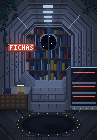
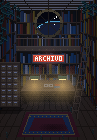
Give the Archive its own architecture and plant positions

diff --git a/js/garden.js b/js/garden.js
@@ -11,16 +11,20 @@ const HOME_X = 38;
 const BOT_Y = 97;
 const reduced = () => window.matchMedia('(prefers-reduced-motion: reduce)').matches;
 
+// Top-left corner of each 26 x 34 cell: small plants, then floor, then hanging.
 export const ROOMS = [
-  { id: 'bay', label: 'Hydroponics bay', art: (band) => `art/out/f_${band}_bg.png` },
-  { id: 'archive', label: 'Archive', art: (band) => `art/out/f_${band}_archive_bg.png` },
-];
-
-// Top-left corner of each 26 x 34 cell: rack, then floor, then hanging.
-const SLOTS = [
-  [64, 50], [76, 50], [64, 60], [76, 60], [64, 70], [76, 70],
-  [1, 93], [71, 105], [17, 107], [29, 83],
-  [24, 0], [46, 0],
+  {
+    id: 'bay',
+    label: 'Hydroponics bay',
+    art: (band) => `art/out/f_${band}_bg.png`,
+    slots: [[64, 50], [76, 50], [64, 60], [76, 60], [64, 70], [76, 70], [1, 93], [71, 105], [17, 107], [29, 83], [24, 0], [46, 0]],
+  },
+  {
+    id: 'archive',
+    label: 'Archive',
+    art: (band) => `art/out/f_${band}_archive_bg.png`,
+    slots: [[3, 16], [15, 16], [27, 16], [43, 16], [55, 16], [67, 16], [0, 100], [72, 104], [12, 108], [58, 106], [6, 0], [66, 0]],
+  },
 ];
 const potFor = (slot) => (slot < 6 ? 0 : slot < 10 ? 1 : 2);
 
@@ -41,7 +45,7 @@ const plantColumn = (plant) => plant.stage + plant.thirst * 5;
 export const plantCell = (plant, band, scale) => sheetCell(band, plantColumn(plant), SPECIES.indexOf(plant.species), scale);
 
 function renderPlant(plant, band) {
-  const [x, y] = SLOTS[plant.slot];
+  const [x, y] = ROOMS[plant.room].slots[plant.slot];
   const wrap = h('div', { class: 'plant' });
   wrap.style.left = px(x);
   wrap.style.top = px(y);
@@ -133,7 +137,7 @@ export function playWater(ctx, card, before, done) {
   document.querySelector('#view').replaceChildren(h('div', { class: 'stage' }, scene));
   document.querySelector('#action').replaceChildren();
 
-  const [cellX, cellY] = SLOTS[target.slot];
+  const [cellX, cellY] = ROOMS[target.room].slots[target.slot];
   const centre = cellX + CELL_W / 2;
   const standX = Math.max(0, Math.min(65, centre < 48 ? Math.round(centre) : Math.round(centre) - 32));
   const water = band === 'night' ? 'art/out/fr_night_fbw.png' : `art/out/fr_${band}_fbw.png`;
@@ -148,7 +152,7 @@ export function playWater(ctx, card, before, done) {
   const grade = ctx.store.save.responses[card.id]?.grade;
   const refreshPlant = () => {
     const old = plantEls.get(target.topic);
-    old.replaceWith(renderPlant({ ...after, slot: target.slot }, band));
+    old.replaceWith(renderPlant({ ...after, room: target.room, slot: target.slot }, band));
   };
   let finished = false;
   let timer = null;

diff --git a/sw.js b/sw.js
@@ -1,5 +1,5 @@
 // Shell and art come from cache and refresh in the background. Cards prefer the network.
-const CACHE = 'freakbot-v6';
+const CACHE = 'freakbot-v7';
 
 const fonts = [
   'michroma-latin-400-normal',

diff --git a/art/final.py b/art/final.py
@@ -43,7 +43,7 @@ BANDS={
 ADD=(0,0,0)
 GLYPH={'L':['100','100','100','100','111'],'I':['111','010','010','010','111'],'B':['110','101','110','101','110'],
        'R':['110','101','110','101','101'],'O':['111','101','101','101','111'],'S':['011','100','010','001','110'],
-       'F':['111','100','110','100','100'],'C':['011','100','100','100','011'],'H':['101','101','111','101','101'],'A':['010','101','111','101','101']}
+       'F':['111','100','110','100','100'],'C':['011','100','100','100','011'],'H':['101','101','111','101','101'],'A':['010','101','111','101','101'],'V':['101','101','101','101','010']}
 RINGS=[0,.22,.4,.55,.68,.8,.9,1.0]
 
 def ring(t):
@@ -235,6 +235,15 @@ def sign(s,word='LIBROS'):
             for dx,bit in enumerate(row):
                 if bit=='1': s.px(10+i*4+dx,45+dy,ROSE_LIGHT,lit=True)
 
+def sign_on_gallery(s,word):
+    width=len(word)*4+3; x0=48-width//2
+    for x in (x0+3,x0+width-4): s.rect(x,52,1,3,WOOD0)
+    s.rect(x0-1,54,width+2,9,S0); s.rect(x0,55,width,7,ROSE_DEEP,lit=True); s.rect(x0,55,width,1,ROSE,lit=True)
+    for i,ch in enumerate(word):
+        for dy,row in enumerate(GLYPH[ch]):
+            for dx,bit in enumerate(row):
+                if bit=='1': s.px(x0+2+i*4+dx,56+dy,ROSE_LIGHT,lit=True)
+
 def rack(s):
     # three-tier grow rack right, about twice Freakbot's height, with a side panel running back into the room
     quad(s,[(70,66),(66,69),(66,98),(70,110)],sh(S1,.7))
@@ -262,50 +271,129 @@ def pot(s,cx,base,col=POT,small=False):
     if not small: s.rect(cx-w//2+2,base+2,w-4,1,ICE,lit=True)
 SPINES=['#C4402E','#2B6CA3','#E0A92E','#1C2028','#EFEEE8','#6C7078','#8A3A2E','#3A5F85']
 
-def book_wall(s):
-    # the back of the Archive: shelves of books with one small porthole left of the old viewport
-    r=random.Random(17)
-    area=sorted(s.sky)
-    keep={(x,y) for x,y in area if math.hypot(x-48,y-42)<=8}
-    for x,y in area:
-        if (x,y) not in keep: s.px(x,y,'#2B2F37')
-    shelves=[34,46,58,70,80]
-    x0,x1=min(a for a,_ in area),max(a for a,_ in area)
-    for top,bot_ in zip([28]+shelves,shelves):
-        x=x0
-        while x<x1:
-            w=r.randint(1,3); h=r.randint(max(3,bot_-top-8),bot_-top-1); c=r.choice(SPINES)
-            for xx in range(x,x+w):
-                for y in range(bot_-h,bot_):
-                    if (xx,y) in area_set(area) and (xx,y) not in keep: s.px(xx,y,c if xx<x+w-1 or w==1 else sh(c,.75))
+WOOD0,WOOD1,WOOD2,WOOD3,PLASTER='#2A1E16','#3E2C1E','#5A4230','#7A5C42','#C9C2B0'
+BRASS,GREEN_LAMP='#B08D4A','#2F6B4A'
+
+def shelf(s,r,x0,x1,top,bottom,rows,shade=1.0):
+    # a frontal bookcase: wooden uprights, books standing at uneven heights
+    s.rect(x0,top,x1-x0,bottom-top,sh(WOOD0,shade))
+    h=(bottom-top)/rows
+    for k in range(rows):
+        y0=int(top+k*h)+1; y1=int(top+(k+1)*h)
+        x=x0+1
+        while x<x1-1:
+            w=r.randint(1,3); tall=r.randint(max(2,y1-y0-3),y1-y0)
+            if r.random()<.1:
+                x+=w; continue
+            c=r.choice(SPINES)
+            for xx in range(x,min(x+w,x1-1)):
+                f=shade*(.78 if xx==x+w-1 and w>1 else 1)
+                s.rect(xx,y1-tall,1,tall,sh(c,f))
             x+=w
-        for xx in range(x0,x1+1):
-            if (xx,bot_) in area_set(area) and (xx,bot_) not in keep: s.px(xx,bot_,'#6C5238')
-    for y in range(34,50):
-        for x in range(40,57):
-            d=math.hypot(x-48,y-42)
-            if 8<d<=9.5: s.px(x,y,S4 if y<42 else S0)
+        s.rect(x0,y1,x1-x0,1,sh(WOOD3,shade))
+    for x in range(x0,x1,15): s.rect(x,top,1,bottom-top,sh(WOOD2,shade))
 
-_AREA={}
-def area_set(area):
-    k=id(area)
-    if k not in _AREA: _AREA[k]=set(area)
-    return _AREA[k]
+def side_shelves(s,r,x0,x1,near_is_x0):
+    # bookcases along a side wall, shrinking toward the back
+    rows=7
+    for x in range(x0,x1):
+        t_=(x-x0)/max(1,x1-x0-1) if near_is_x0 else 1-(x-x0)/max(1,x1-x0-1)
+        top=-8+18*t_; bottom=150-64*t_; f=.5+.34*t_
+        c=r.choice(SPINES)
+        for k in range(rows):
+            y0=top+(bottom-top)*k/rows; y1=top+(bottom-top)*(k+1)/rows
+            if x%3==0: c=r.choice(SPINES)
+            tall=int((y1-y0)*(.7+.25*((x*7+k*3)%4)/3))
+            s.rect(x,int(y1)-tall,1,tall,sh(c,f))
+            s.rect(x,int(y1),1,1,sh(WOOD3,f))
 
-def catalog(s):
-    # card catalog left: the same footprint as the console, all small drawers
-    quad(s,[(0,94),(28,94),(31,87),(11,87)],S3)
-    line(s,(28,94),(31,87),S4)
-    quad(s,[(28,94),(31,87),(31,100),(28,110)],sh(S1,.74))
-    line(s,(31,87),(31,100),sh(S0,.7))
-    s.rect(0,94,28,16,'#6C5238'); s.rect(0,94,28,1,'#8A6C4C'); s.rect(0,109,28,1,'#3A2C20'); s.rect(27,94,1,16,'#3A2C20')
-    for y in range(96,108,4):
-        for x in range(1,26,5):
-            s.rect(x,y,4,3,'#7E6244'); s.rect(x,y,4,1,'#957555'); s.px(x+1,y+1,AMBER)
-    for i,(w,c,g) in enumerate([(9,'#3B3F7C','#F4C25E'),(8,'#7A2C55','#F4C25E'),(9,'#2F6A6A','#CFE4FF')]):
-        s.rect(2+i%2,92-2*i,w,2,c); s.rect(2+i%2,92-2*i,1,2,g)
-    # reading lamp
-    s.rect(18,92,6,2,'#8A6A2E'); s.rect(20,85,1,7,'#B08D4A'); s.rect(16,82,9,3,'#2B6CA3'); s.rect(16,82,9,1,'#5D93C4'); s.rect(17,85,7,1,'#FFE7A0',lit=True)
+def rose_window(s):
+    # a round port high on the back wall, the only sight of space from in here
+    b=BANDS[s.t]; cx,cy,rad=48,23,12
+    area=[(x,y) for y in range(cy-rad-1,cy+rad+2) for x in range(cx-rad-1,cx+rad+2) if math.hypot(x-cx,y-cy)<=rad]
+    for x,y in area:
+        s.im.putpixel((x,y),hx(b['space'][min(2,int((y-cy+rad)/(rad*2)*3))])); s.sky.add((x,y)); s.lit.discard((x,y))
+    tones=b['planet']
+    for x,y in area:
+        if math.hypot(x-54,y-46)<26: s.im.putpixel((x,y),hx(tones[1]))
+        if 25<=math.hypot(x-54,y-46)<26: s.im.putpixel((x,y),hx(b['limb']))
+    st=random.Random(3)
+    for _ in range(9):
+        x,y=st.randint(cx-9,cx+9),st.randint(cy-9,cy+4)
+        if (x,y) in s.sky: s.im.putpixel((x,y),hx('#FFFFFF'))
+    for k in range(8):
+        a=k*math.pi/4
+        line(s,(cx,cy),(cx+rad*math.cos(a),cy+rad*math.sin(a)),WOOD1)
+    for y in range(cy-rad-3,cy+rad+4):
+        for x in range(cx-rad-3,cx+rad+4):
+            d=math.hypot(x-cx,y-cy)
+            if rad<d<=rad+2.4: s.px(x,y,BRASS if y<cy else sh(BRASS,.68))
+    for k in range(12):
+        a=k*math.pi/6; s.px(cx+(rad+1.2)*math.cos(a),cy+(rad+1.2)*math.sin(a),WOOD0)
+
+def archive_room(s,r):
+    s.rect(0,0,W,H,WOOD0)
+    L,T,R,B=16,10,80,86
+    # plaster vault with dark beams
+    quad(s,[(0,0),(W,0),(R,T),(L,T)],PLASTER)
+    for k in range(1,6):
+        f=k/6; y=T*f; xl=L*f; xr=W-(W-R)*f
+        s.rect(int(xl),int(y),int(xr-xl),1,WOOD1)
+    for x in (0,24,48,72,96):
+        line(s,(x,0),(L+(x/96)*(R-L),T),WOOD1)
+    side_shelves(s,r,0,L,True)
+    side_shelves(s,r,R,W,False)
+    # plank floor running to the back wall
+    quad(s,[(L,B),(R,B),(W+18,H),(-18,H)],WOOD2)
+    for xb in range(-30,130,9):
+        line(s,(48+(xb-48)*.42,B),(xb,H),WOOD1)
+    for y,k in ((96,.8),(110,.9),(126,1.0)):
+        s.rect(0,y,W,1,sh(WOOD1,k))
+    # two storeys of books
+    shelf(s,r,L,R,T,46,3,.82)
+    shelf(s,r,L,R,52,B,3,.72)
+    rose_window(s)
+    # gallery running across the room
+    s.rect(L,46,R-L,6,WOOD3); s.rect(L,46,R-L,1,'#957555'); s.rect(L,51,R-L,1,WOOD0)
+    for x in range(L+2,R,7): s.px(x,49,BRASS)
+    s.rect(L,38,R-L,1,'#957555')
+    for x in range(L+1,R,3): s.rect(x,39,1,7,WOOD1)
+    s.rect(L,86,R-L,2,WOOD0)
+
+def archive_furniture(s):
+    # long reading table with two green lamps
+    for y in range(92,102):
+        for x in range(22,76): darken(s,x,y,.62)
+    quad(s,[(27,80),(69,80),(75,90),(21,90)],WOOD3)
+    line(s,(21,90),(75,90),'#957555')
+    s.rect(21,91,55,4,WOOD1); s.rect(21,94,55,1,WOOD0)
+    s.rect(24,95,3,9,WOOD0); s.rect(69,95,3,9,WOOD0)
+    for cx in (34,62):
+        s.rect(cx-2,84,5,1,BRASS); s.rect(cx,79,1,5,BRASS)
+        s.rect(cx-4,76,9,3,GREEN_LAMP); s.rect(cx-4,76,9,1,'#4E8E68')
+        s.rect(cx-3,79,7,1,'#FFE7A0',lit=True)
+    # open book and a stack
+    s.rect(44,84,9,3,'#E9DCC0'); s.rect(48,84,1,3,'#B9A880'); s.rect(45,85,2,1,'#5A4A3A'); s.rect(50,85,2,1,'#5A4A3A')
+    for i,(x,w,c) in enumerate(((54,6,'#2B6CA3'),(55,5,'#C4402E'))): s.rect(x,86-2*i,w,2,c)
+    # card catalog against the left wall
+    s.rect(0,62,21,46,WOOD2); s.rect(0,62,21,1,'#8A6C4C'); s.rect(20,62,1,46,WOOD0); s.rect(0,107,21,1,WOOD0)
+    for y in range(65,105,6):
+        for x in range(1,19,6):
+            s.rect(x,y,5,5,'#7E6244'); s.rect(x,y,5,1,'#957555'); s.rect(x+1,y+1,3,1,'#EFEEE8'); s.px(x+2,y+3,BRASS)
+    for y in range(108,114):
+        for x in range(0,24-(y-108)): darken(s,x,y,.6)
+    # library ladder leaning on the gallery
+    line(s,(84,40),(70,118),WOOD1); line(s,(90,40),(76,118),WOOD1)
+    line(s,(85,40),(71,118),WOOD3); line(s,(91,40),(77,118),WOOD3)
+    for k in range(1,11):
+        f=k/11; s.rect(int(85+f*-14),int(40+78*f),6,1,WOOD3)
+    # worn rug under Freakbot
+    quad(s,[(26,112),(70,112),(79,136),(17,136)],'#6E2230')
+    quad(s,[(29,114),(67,114),(74,134),(22,134)],'#B08D4A')
+    quad(s,[(30,115),(66,115),(73,133),(23,133)],'#2B4A73')
+    quad(s,[(34,118),(62,118),(67,130),(29,130)],'#6E2230')
+    for x in range(30,67,4): s.px(x,116,'#E0A92E')
+    for x in range(25,72,4): s.px(x,132,'#E0A92E')
 
 def scarf(img):
     p=img.load()
@@ -378,17 +466,17 @@ def pad(s):
         s.px(cx+31*math.cos(math.radians(a)),cy+11*math.sin(math.radians(a)),MINT,lit=True)
 
 def build(time, face='fbo', with_bot=True, room='bay'):
-    s=S(time); r=random.Random(21); hull(s); viewport(s)
-    if room=='archive': book_wall(s)
-    # remember the bare deck, for reflections
-    mask=Image.new('1',(W,H),0); d=ImageDraw.Draw(mask)
-    for i in (3,4,5): d.polygon([P(i,0,0),P(i,1,0),P(i,1,1),P(i,0,1)],fill=1)
-    m=mask.load(); s.floor={(x,y):s.im.getpixel((x,y)) for y in range(H) for x in range(W) if m[x,y] and (x,y) not in s.sky and (x,y) not in s.lit}
-    grime(s); floor_shadows(s)
-    if room=='archive': catalog(s); sign(s,'FICHAS')
-    else: console(s); sign(s)
-    rack(s); pad(s); bot_shadow(s)
-    glass(s)
+    s=S(time); s.room=room; s.lights=[]; s.floor={}; r=random.Random(21)
+    if room=='archive':
+        archive_room(s,r); archive_furniture(s); sign_on_gallery(s,'ARCHIVO')
+    else:
+        hull(s); viewport(s)
+        # remember the bare deck, for reflections
+        mask=Image.new('1',(W,H),0); d=ImageDraw.Draw(mask)
+        for i in (3,4,5): d.polygon([P(i,0,0),P(i,1,0),P(i,1,1),P(i,0,1)],fill=1)
+        m=mask.load(); s.floor={(x,y):s.im.getpixel((x,y)) for y in range(H) for x in range(W) if m[x,y] and (x,y) not in s.sky and (x,y) not in s.lit}
+        grime(s); floor_shadows(s); console(s); sign(s); rack(s); pad(s); glass(s)
+    bot_shadow(s)
     overgrowth(s,r)
     if with_bot: bot(s,'fbn' if time=='night' else face,44,102)
     return grade(s)
@@ -432,6 +520,11 @@ def grade(s):
                         if k>0: p[x,y]=tuple(int(v+(c-v)*k) for v,c in zip(p[x,y],col))
     strip=hx(b['strip'])
     for lx,ly in s.lights: glow(lx,ly,8,strip,.16)
+    if s.room=='archive':
+        lamp=.62 if t in ('golden','night') else .4
+        glow(34,86,24,(255,206,120),lamp); glow(62,86,24,(255,206,120),lamp)
+        glow(48,59,16,(224,96,74),b['sign']*.26)
+        return s.im
     glow(21,47,22,(224,96,74),b['sign']*.26)
     glow(20,89,10,(224,169,46),.3)
     glow(83,88,18,(224,96,74),.1)

diff --git a/DESIGN.md b/DESIGN.md
@@ -1,6 +1,6 @@
 # Freakbot's Conservatory: design doc
 
-Version 1.8 · 9 Nov 2026 · owner: Felix (1.1: cards are written at summary time, section 7; 1.2: Phase 1 decisions in sections 3, 4.3, 5.4, 5.5, 6.4, 6.5, 9; 1.3: ship room restyle in section 4, key-point grading, Friday task moved up; 1.4: full ship redesign, sections 3 and 4; 1.5: white interior, rooms and travel, sections 4.2, 5.1, 5.7, 9; 1.6: signage interface and shared palette, sections 3, 4.4, 4.5; 1.7: Android app, section 6.7; 1.8: phone reminders, Phase 2 details in 5.1, 5.3, 5.7, 6.4)
+Version 1.9 · 9 Nov 2026 · owner: Felix (1.1: cards are written at summary time, section 7; 1.2: Phase 1 decisions in sections 3, 4.3, 5.4, 5.5, 6.4, 6.5, 9; 1.3: ship room restyle in section 4, key-point grading, Friday task moved up; 1.4: full ship redesign, sections 3 and 4; 1.5: white interior, rooms and travel, sections 4.2, 5.1, 5.7, 9; 1.6: signage interface and shared palette, sections 3, 4.4, 4.5; 1.7: Android app, section 6.7; 1.8: phone reminders, Phase 2 details in 5.1, 5.3, 5.7, 6.4; 1.9: the Archive has its own architecture, 5.7)
 
 A study app for PhD reading. You answer a few questions a day about papers you have read; right answers water a small conservatory of plants, one plant per research topic. Freakbot, a salvaged pixel robot who survived the apocalypse, lives there, tends the plants and talks to you. It is an installable web app (PWA) hosted on GitHub Pages and used mostly on a Samsung phone.
 
@@ -173,7 +173,7 @@ Stages can go down if mastery drops (the plant loses fruit, not its size: never 
 - One lore chapter per completed day, in order (13 chapters from the Mac app’s `lines.js`, Coronel Plumas appears in text only). After the last, weekly results pages only, until new chapters are written.
 
 ### 5.7 Rooms and travel
-- Rooms open in this order, every 12 plants: Hydroponics bay, Archive (shelves of books and card catalogs), Observatory (domed roof, telescope), Greenhouse deck (open to the sky). Swipe or tap between them on the Garden tab. Bay and Archive exist so far; the Observatory and Greenhouse deck get drawn when someone reaches 25 plants, and until then those plants live in the Herbarium only.
+- Rooms open in this order, every 12 plants: Hydroponics bay, Archive (shelves of books and card catalogs), Observatory (domed roof, telescope), Greenhouse deck (open to the sky). Swipe or tap between them on the Garden tab. Each room must have its own architecture, furniture, light and plant positions, not a repaint of another room. The Archive is a tall wooden library: two storeys of books, a gallery where the small plants sit, a round brass window, a reading table with green lamps, a card catalog, a ladder and a rug. Bay and Archive exist so far; the Observatory and Greenhouse deck get drawn when someone reaches 25 plants, and until then those plants live in the Herbarium only.
 - Destinations come from `data/locations.json`. The current one is `floor(water / 200) mod count`, so it needs no saved state and only answering cards can move the building. About one new view every 10 days.
 - First destinations: orbit, old port city (Valparaíso-inspired), ruined college town, ringed planet. Time-of-day lighting applies at every stop.
 
